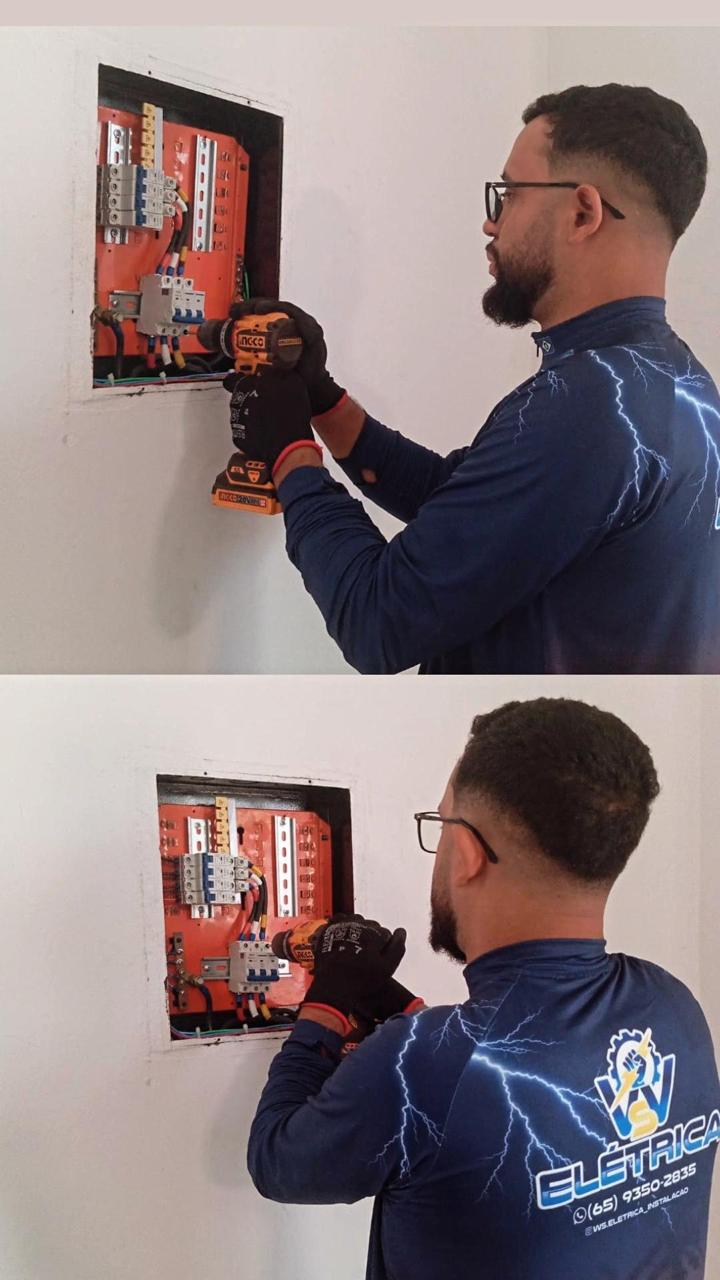
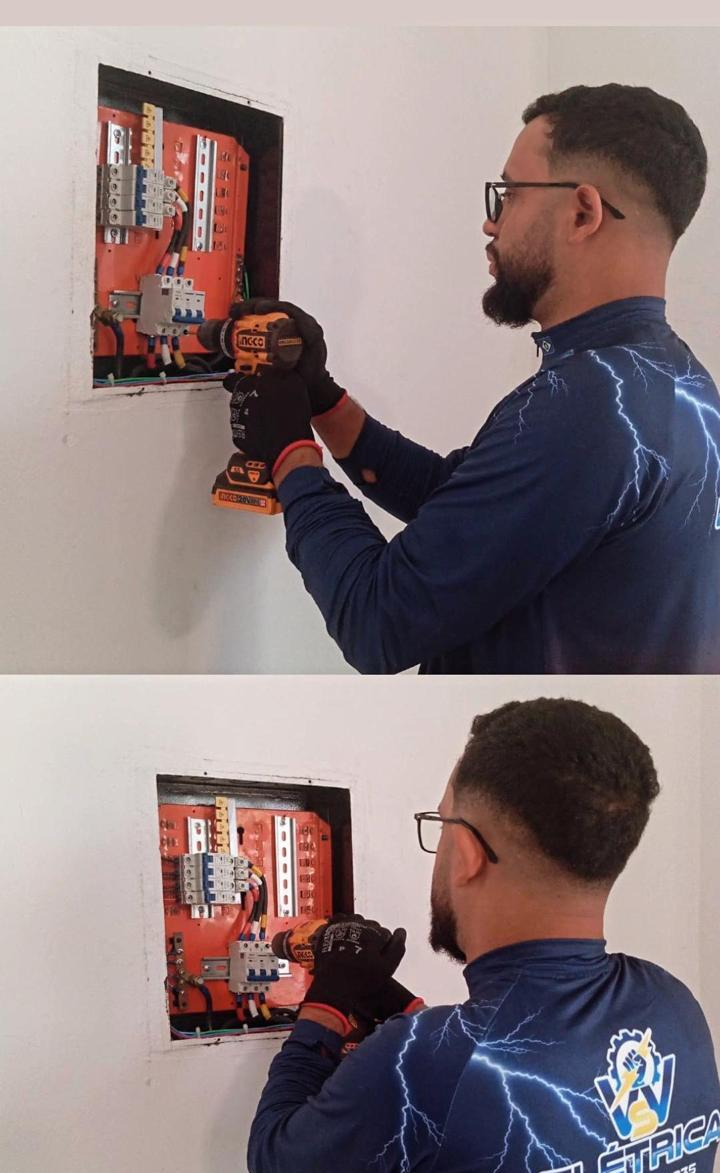
att imagens

diff --git a/app/layout.tsx b/app/layout.tsx
@@ -37,7 +37,7 @@ export const metadata: Metadata = {
     type: "website",
     images: [
       {
-        url: "/seo.png",
+        url: "/og-image.jpg",
         width: 1200,
         height: 630,
         alt: "WS Elétrica e Refrigeração - Ar-condicionado, refrigeração e instalações elétricas",
@@ -48,7 +48,7 @@ export const metadata: Metadata = {
     card: "summary_large_image",
     title,
     description,
-    images: ["/seo.png"],
+    images: ["/og-image.jpg"],
   },
 };
 
@@ -57,7 +57,7 @@ const jsonLd = {
   "@type": ["Electrician", "HVACBusiness"],
   name: "WS Elétrica e Refrigeração",
   url: SITE_URL,
-  image: `${SITE_URL}/seo.png`,
+  image: `${SITE_URL}/og-image.jpg`,
   telephone: "+5565993502835", // troca pelo telefone real (mesmo do WhatsApp)
   address: {
     "@type": "PostalAddress",
